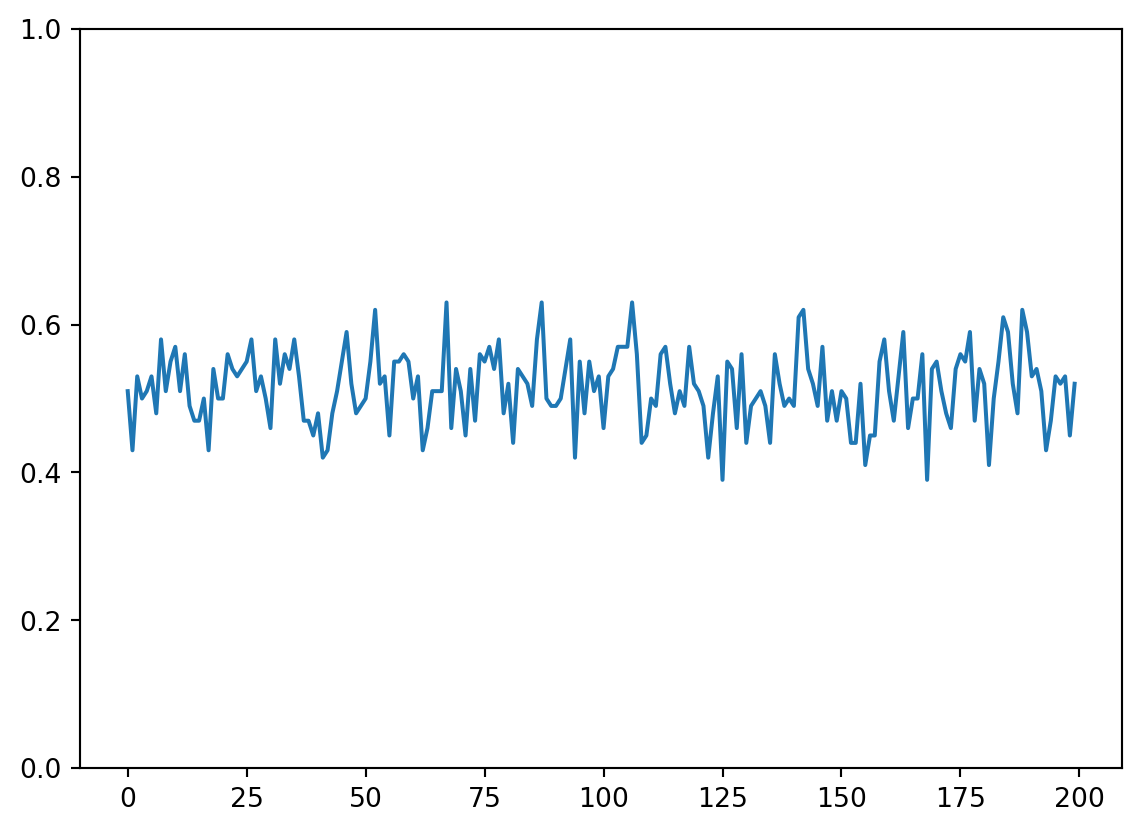
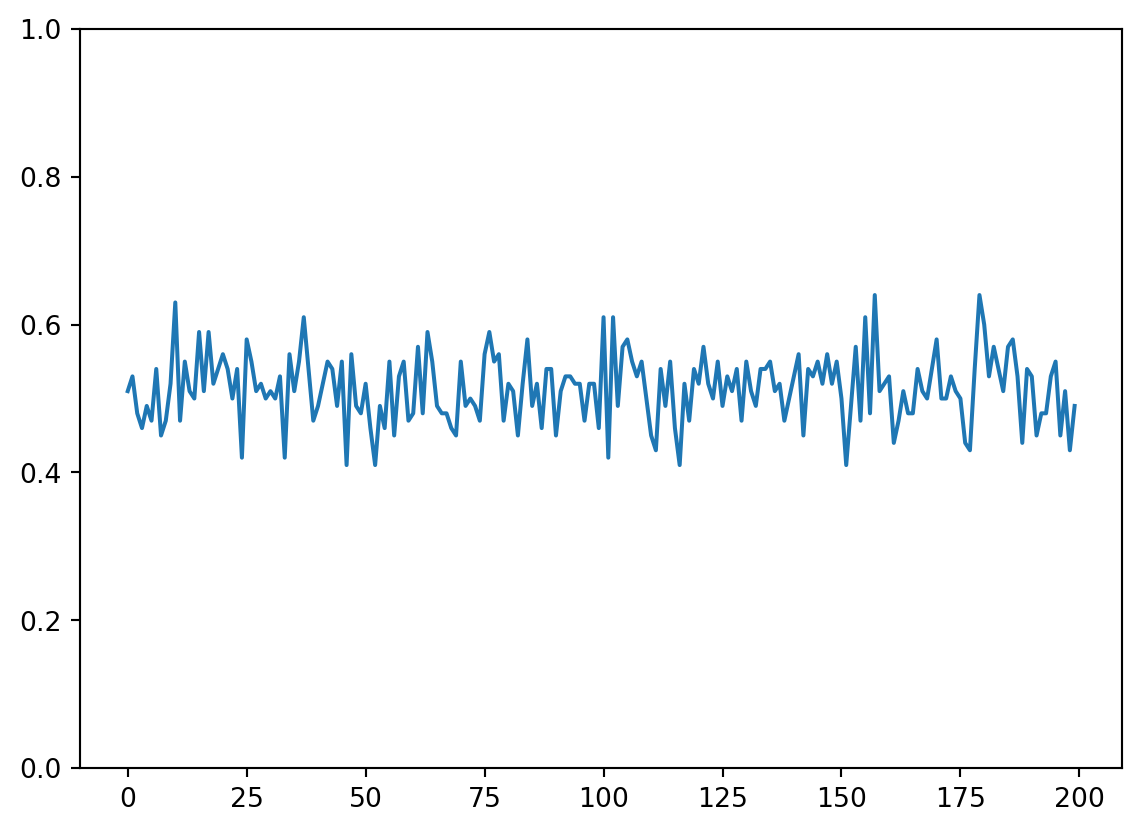
discuss figure

Changed region(s): [[0.092, 0.375, 0.9509, 0.5625]]

diff --git a/src/chains.py b/src/chains.py
@@ -34,7 +34,7 @@ for idx, indv in population.items():
 # transmission
 for t in range(1, t_max):
     # draw individuals
-    new_population = population.sample(N,replace=True, random_state=rng)
+    new_population = population.sample(N,replace=True)
     for n, (idx, indv) in enumerate(new_population.items()):
         circ = plt.Circle(xy=(t,n), 
                 facecolor=colors[indv], **circle_kws)
